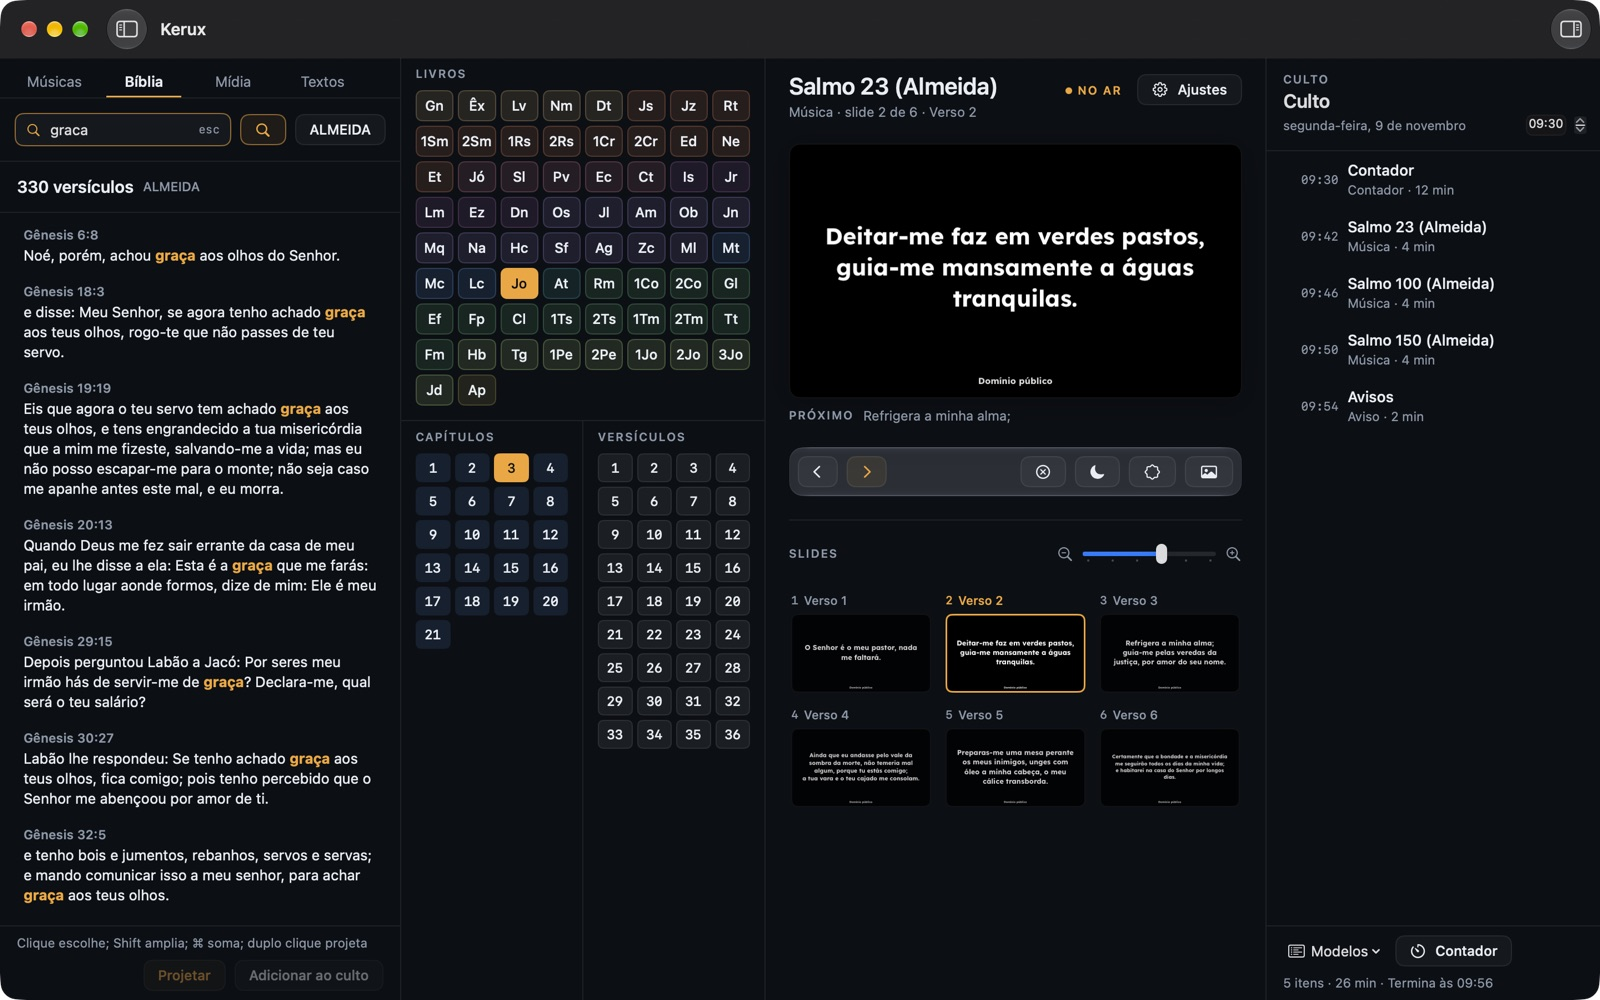
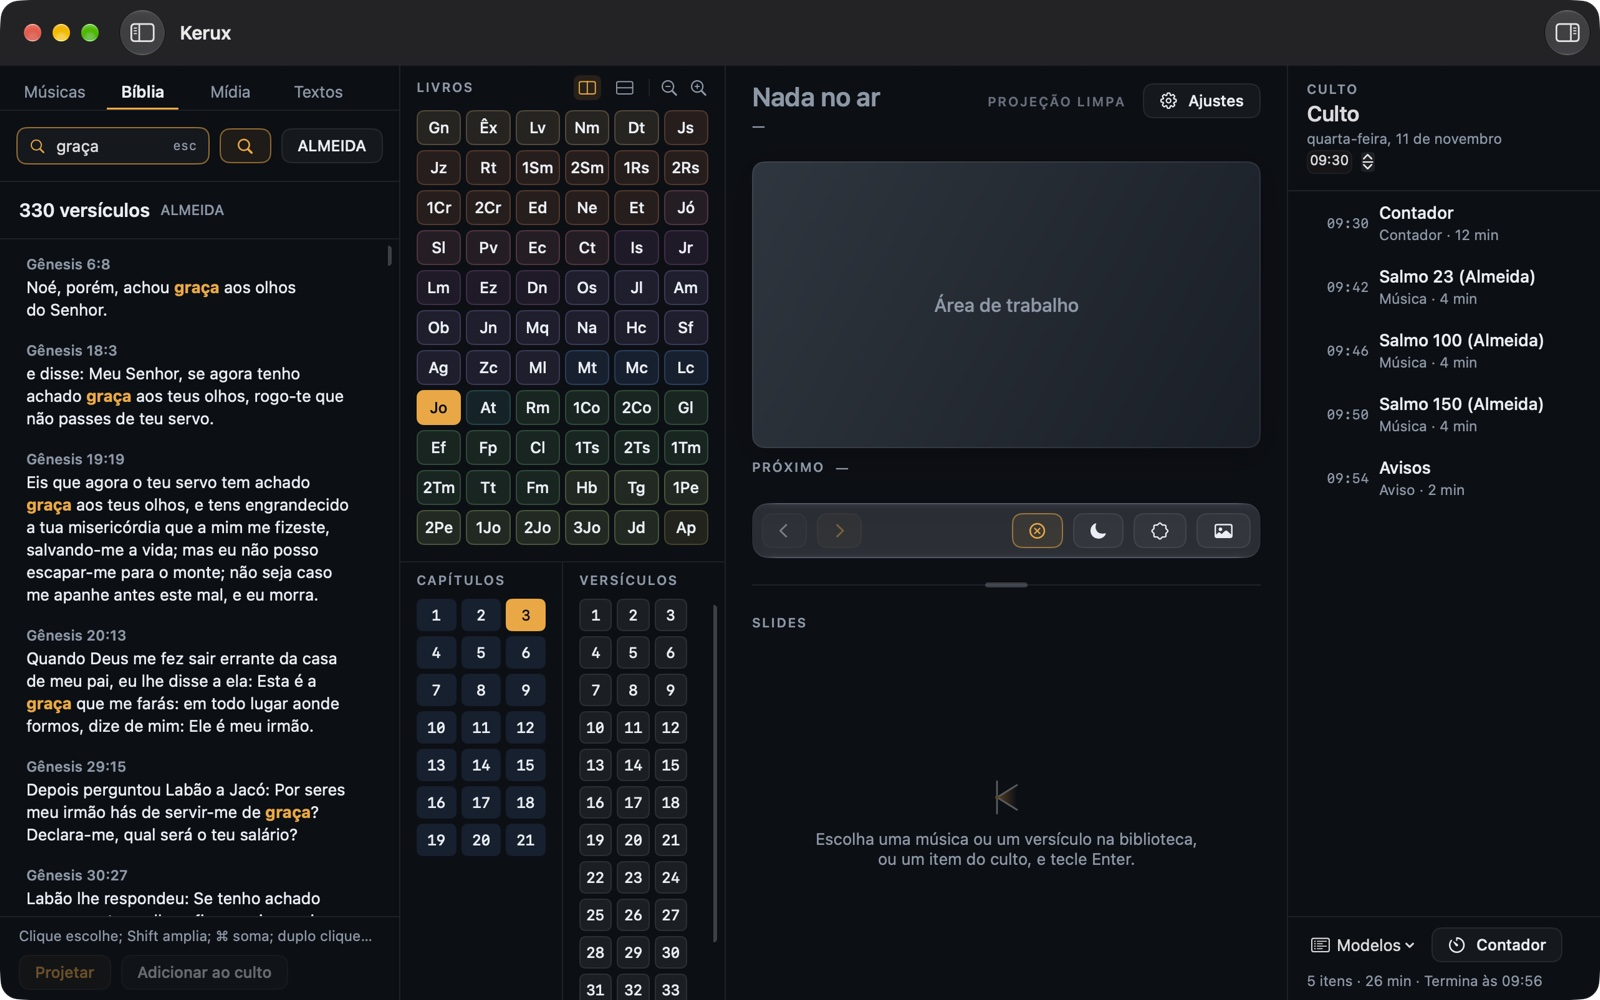
Kerux 1.0.0 na página de download, com prints do layout novo
Download, tamanho e SHA-256 da 1.0.0; prints musicas, biblia-grade e
busca-biblia refeitos (1600x1000, dados de teste, só Almeida e três salmos);
texto da Bíblia e do culto com as novidades.

diff --git a/public/kerux/index.html b/public/kerux/index.html
@@ -93,7 +93,7 @@
           <div>
             <h3>Quem conduz o culto</h3>
             <p>Monte a ordem do culto na semana, com músicas, versículos, avisos e a apresentação do pregador, e
-              acompanhe tudo do celular.</p>
+              acompanhe tudo do celular. O contador de abertura salvo na Mídia pode passar sozinho para o próximo item do culto.</p>
           </div>
         </div>
       </section>
@@ -109,7 +109,8 @@
           <div>
             <h3>Bíblia navegável</h3>
             <p>Grade de livros, capítulos e versículos, busca por palavra, ou digite “Jo 3.16-18”. Projete o versículo, o capítulo ou o
-              livro, com a versão e a referência no rodapé de cada slide.</p>
+              livro, com a versão e a referência no rodapé de cada slide. Ajuste o tamanho dos blocos e deixe capítulos e
+              versículos lado a lado ou empilhados.</p>
           </div>
           <div>
             <h3>Mídia, PDF e apresentações</h3>
@@ -185,12 +186,12 @@
           definitiva ainda não foi definida.</p>
         <div class="sw-dl">
           <div class="download-row">
-            <a class="btn btn-primary" href="https://github.com/orddum/kerux-releases/releases/download/v0.8.4/Kerux-0.8.4.dmg" rel="noopener">Baixar Kerux 0.8.4 para Mac</a>
+            <a class="btn btn-primary" href="https://github.com/orddum/kerux-releases/releases/download/v1.0.0/Kerux-1.0.0.dmg" rel="noopener">Baixar Kerux 1.0.0 para Mac</a>
             <a class="btn btn-secondary" href="#instalar">Como instalar</a>
           </div>
-          <p class="download-meta">Kerux-0.8.4.dmg · 20,9 MB (20 888 360 bytes) · macOS 14+ · chip Apple · notarizado pela Apple</p>
-          <p class="sw-hash"><strong>SHA-256:</strong> 1c3ce1dd686518aaeed08fe555f67487d4c60cf7eabc941ed5f03ff6581ef31d</p>
-          <p class="sw-soon">Para conferir o arquivo baixado, rode <code>shasum -a 256 ~/Downloads/Kerux-0.8.4.dmg</code>
+          <p class="download-meta">Kerux-1.0.0.dmg · 20,9 MB (20 941 765 bytes) · macOS 14+ · chip Apple · notarizado pela Apple</p>
+          <p class="sw-hash"><strong>SHA-256:</strong> fdf0340720cc9ecc2ee61c8f009f8622c143c77ab2ea648ac4bbc157467c4647</p>
+          <p class="sw-soon">Para conferir o arquivo baixado, rode <code>shasum -a 256 ~/Downloads/Kerux-1.0.0.dmg</code>
             no Terminal e compare com o valor acima.</p>
         </div>
 
@@ -201,7 +202,7 @@
             alt="Janela do instalador do Kerux: o ícone do Kerux, uma seta e a pasta Aplicativos, com o texto “Arraste o Kerux para Aplicativos”.">
         </figure>
         <ol class="steps">
-          <li>Dê duplo clique em <strong>Kerux-0.8.4.dmg</strong>. Abre uma janela com o ícone do Kerux e a pasta Aplicativos.</li>
+          <li>Dê duplo clique em <strong>Kerux-1.0.0.dmg</strong>. Abre uma janela com o ícone do Kerux e a pasta Aplicativos.</li>
           <li><strong>Arraste o Kerux para Aplicativos.</strong> Depois ejete o disco e apague o arquivo baixado.</li>
           <li>Abra o Kerux pelo Launchpad. Na primeira vez, o macOS pergunta se você quer abrir um app baixado da
             internet: clique em <strong>Abrir</strong>.</li>
